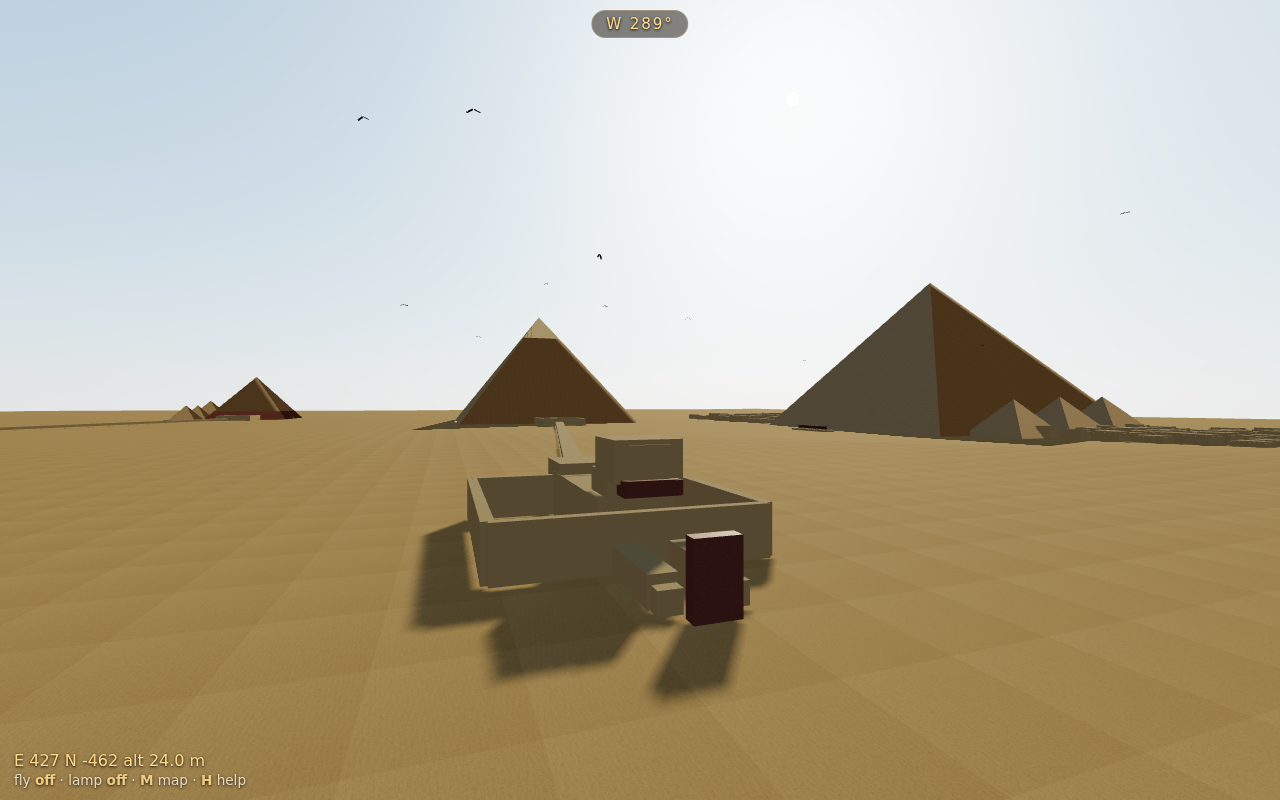
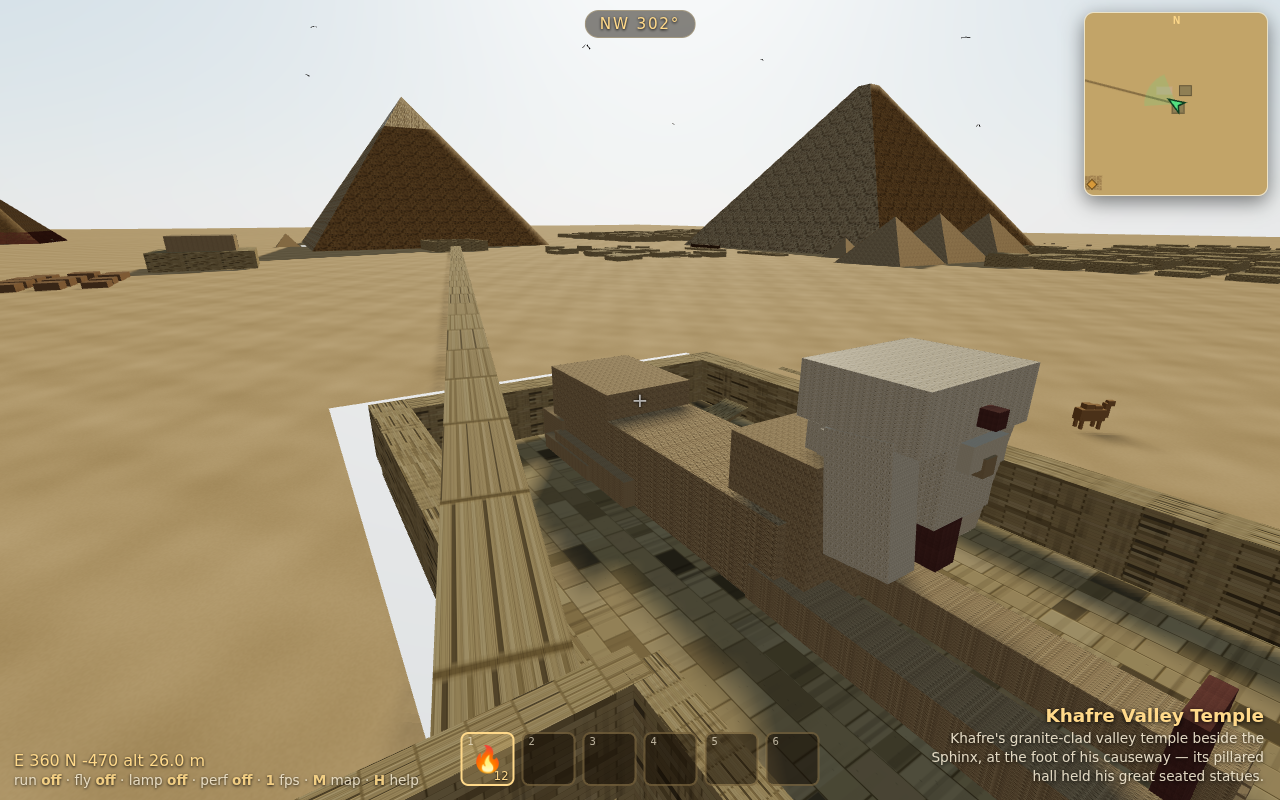
Rebuild the Sphinx + enclosure; add GIS quarry and tomb-number hovers
- Sphinx fully remodelled: recumbent lion body with rising chest, folded hind
  legs and tail, long outstretched forepaws with toes, raised neck/face with a
  broad striped nemes headdress (side lappets + back), brow, broken nose, uraeus,
  broken beard, and the Dream Stele between the paws.
- Sphinx now sits ~6 m below grade in its quarried ENCLOSURE: a sunken floor
  with rock walls on N/W/S (open east to the temples) and a ramp down; terrain
  is cut away there. Sphinx fast-travel drops you in the enclosure.
- Central-Field (GIS) quarry south of the Great Pyramid: stepped bedrock benches,
  with a landmark + fast-travel + map marker.
- Mastaba tombs now carry catalog numbers (G 7000s east, G 1200s west, workers'
  tombs) shown on hover on the full map.

diff --git a/js/world.js b/js/world.js
@@ -6,7 +6,7 @@ import {
   KHUFU_INTERIOR, simpleInterior, DEG, KHENTKAUS, WORKERS_VILLAGE,
   WALL_OF_CROW, MENKAURE_VALLEY, KHAFRE_VALLEY,
   SATELLITES, BOAT_PITS, KHUFU_VALLEY,
-  TRIAL_PASSAGES, KHENTKAUS_TOWN, WORKERS_CEMETERY
+  TRIAL_PASSAGES, KHENTKAUS_TOWN, WORKERS_CEMETERY, GIS_QUARRY
 } from './data.js';
 import {
   buildPyramidGeometry, buildInterior, buildStaircase
@@ -38,8 +38,15 @@ const PITS = [
   { c: PYRAMIDS.khafre.center, r: 105 },
   { c: PYRAMIDS.menkaure.center, r: 49 }
 ];
+const SPHINX_FLOOR = -6;        // the Sphinx sits 6 m below grade in its enclosure
+const SPHINX_RECT = {           // terrain removed here for the quarried enclosure
+  x0: SPHINX.center.x - 52, x1: SPHINX.center.x + 56,
+  z0: SPHINX.center.z - 33, z1: SPHINX.center.z + 33
+};
 function inPit(x, z) {
   for (const p of PITS) if (Math.hypot(x - p.c.x, z - p.c.z) < p.r) return true;
+  const r = SPHINX_RECT;
+  if (x > r.x0 && x < r.x1 && z > r.z0 && z < r.z1) return true;
   return false;
 }
 
@@ -140,36 +147,77 @@ function buildSmallPyramid(q, mats, collidables, group) {
   group.add(mesh); collidables.push(mesh);
 }
 
-function buildSphinx(mats, collidables, group) {
+// A detailed Great Sphinx (recumbent lion, nemes headdress, outstretched
+// paws, Dream Stele), sat with its base at `baseY` inside its enclosure.
+function buildSphinx(mats, collidables, group, baseY) {
   const s = SPHINX;
-  const L = s.length, H = s.height, W = s.width;
   const g = new THREE.Group();
-  const add = (sx, sy, sz, x, y, z, mat, collide = true) => {
-    const m = new THREE.Mesh(new THREE.BoxGeometry(sx, sy, sz), mat || mats.bedrock);
-    m.position.set(x, y, z);
+  const body = mats.limestone, head = mats.casing, gr = mats.granite;
+  const add = (sx, sy, sz, x, y, z, mat, collide = true, rot = 0) => {
+    const m = new THREE.Mesh(new THREE.BoxGeometry(sx, sy, sz), mat || body);
+    m.position.set(x, y, z); if (rot) m.rotation.z = rot;
     m.castShadow = true; m.receiveShadow = true;
     if (collide) { m.userData.collidable = true; collidables.push(m); }
     g.add(m); return m;
   };
-  // Faces east (+X): head and outstretched paws at the front (+X), the
-  // crouching lion body and haunches behind (−X).
-  add(L * 0.55, H * 0.5, W * 0.72, -L * 0.16, H * 0.25, 0);          // body
-  add(L * 0.2, H * 0.62, W * 0.72, -L * 0.4, H * 0.31, 0);           // rear haunches (taller)
-  // forelegs + outstretched paws reaching east
-  for (const sz of [1, -1]) {
-    add(L * 0.46, H * 0.22, W * 0.22, L * 0.2, H * 0.11, sz * W * 0.24); // leg
-    add(W * 0.12, H * 0.16, W * 0.18, L * 0.45, H * 0.08, sz * W * 0.24); // paw toes
+  // Faces east (+X). Coordinates: x east (front), y up from base, z = ±width.
+  // — Recumbent lion body (rises toward the chest at the front) —
+  add(46, 9, 13, -18, 4.5, 0);                 // torso
+  add(17, 12.5, 13, -33, 6.2, 0);              // rear haunches (taller)
+  for (const sz of [1, -1]) {                  // folded hind legs along the sides
+    add(20, 3.5, 3.2, -28, 1.8, sz * 6.4);
+    add(7, 5, 3, -41, 2.5, sz * 5.5);          // rear paws
   }
-  add(L * 0.14, H * 0.62, W * 0.55, L * 0.05, H * 0.4, 0);           // chest below the head
-  // head, neck and the striped nemes headdress, looking east
-  add(W * 0.34, H * 0.34, W * 0.36, L * 0.16, H * 0.78, 0);          // head/face
-  add(W * 0.6, H * 0.34, W * 0.6, L * 0.12, H * 0.82, 0);            // nemes headdress (broad)
-  add(W * 0.22, H * 0.12, W * 0.5, L * 0.2, H * 0.62, 0, mats.granite); // ceremonial beard stub
-  // Dream Stele standing between the paws (Thutmose IV)
-  add(W * 0.12, H * 0.5, W * 0.34, L * 0.5, H * 0.25, 0, mats.granite);
-  g.position.set(s.center.x, 0, s.center.z);
+  // tail curling along the south flank to the right rear
+  add(14, 2.2, 2.2, -34, 1.1, 7.2, body, true);
+  // — Outstretched forepaws reaching east —
+  for (const sz of [1, -1]) {
+    add(30, 3.6, 4.4, 17, 1.8, sz * 4.6);      // foreleg
+    for (let t = 0; t < 4; t++)                // four toes per paw
+      add(1.7, 2.0, 0.9, 31.5, 1.0, sz * 4.6 + (t - 1.5) * 1.15, body, false);
+  }
+  // — Chest, neck, head —
+  add(10, 15, 11, 2.5, 7.5, 0);                // chest below the head
+  add(6, 5.5, 6.5, 8.5, 14.5, 0, head);        // neck
+  add(7, 8.5, 7, 12.5, 17.5, 0, head);         // face
+  add(1.2, 2.0, 4.5, 16.3, 18.5, 0, head, false); // brow ridge
+  add(1.4, 1.4, 1.4, 16.4, 17.6, 0, body, false); // broken nose stub
+  // nemes headdress: broad striped headcloth flaring at the sides + back
+  add(10, 4.5, 13.5, 11, 21.5, 0, head);       // crown of the headcloth
+  for (const sz of [1, -1])                    // side lappets (the flaps)
+    add(5.5, 10, 3, 12, 14.5, sz * 5.3, head, true, sz * 0.12);
+  add(5, 8, 6, 6.5, 16, 0, head);              // back of the headcloth
+  add(1.3, 1.3, 1.3, 16.6, 21.0, 0, gr, false);// uraeus (cobra) on the brow
+  add(2.0, 5.5, 2.4, 14.5, 11.5, 0, gr, false);// broken ceremonial beard stub
+  // Dream Stele of Thutmose IV, standing between the front paws
+  add(1.2, 9, 5, 30, 4.5, 0, gr);
+  g.position.set(s.center.x, baseY || 0, s.center.z);
   group.add(g);
 }
+
+// The quarried enclosure the Sphinx sits in: a sunken floor with rock walls
+// on the N, W and S sides (open to the east toward the temples), plus a ramp.
+function buildSphinxEnclosure(mats, collidables, group) {
+  const s = SPHINX, floorY = SPHINX_FLOOR;
+  const x0 = s.center.x - 46, x1 = s.center.x + 50, z0 = s.center.z - 26, z1 = s.center.z + 26;
+  const wallTop = 2, t = 5;
+  const floor = new THREE.Mesh(new THREE.BoxGeometry(x1 - x0, 1, z1 - z0 + 2 * t), mats.bedrock);
+  floor.position.set((x0 + x1) / 2, floorY - 0.5, s.center.z); floor.receiveShadow = true;
+  floor.userData.collidable = true; group.add(floor); collidables.push(floor);
+  const wallH = wallTop - floorY;
+  const wall = (sx, sz, cx, cz) => {
+    const m = new THREE.Mesh(new THREE.BoxGeometry(sx, wallH, sz), mats.bedrock);
+    m.position.set(cx, floorY + wallH / 2, cz); m.castShadow = true; m.receiveShadow = true;
+    m.userData.collidable = true; group.add(m); collidables.push(m);
+  };
+  wall(x1 - x0 + 2 * t, t, (x0 + x1) / 2, z0 - t / 2);   // north
+  wall(x1 - x0 + 2 * t, t, (x0 + x1) / 2, z1 + t / 2);   // south
+  wall(t, z1 - z0, x0 - t / 2, s.center.z);              // west (behind the tail)
+  // ramp down into the enclosure from the north-west
+  orientedBox({ x: x0 + 10, y: 0, z: z0 - 14 }, { x: x0 + 10, y: floorY + 0.3, z: z0 + 6 },
+    6, 0.6, mats.bedrock, collidables, group);
+}
+
 
 // Low-walled stone enclosure (temple / mastaba), open-topped.
 function buildEnclosure(cx, cz, sx, sz, height, mats, collidables, group) {
@@ -208,8 +256,9 @@ function orientedBox(a, b, w, h, mat, collidables, group) {
 
 // A field of mastaba tombs (flat-topped, battered) in a regular street grid —
 // the real plateau is densely covered with these around the Great Pyramid.
-function buildMastabaField(cx, cz, cols, rows, dx, dz, mat, collidables, group, skip, out) {
+function buildMastabaField(cx, cz, cols, rows, dx, dz, mat, collidables, group, skip, out, prefix, baseNum) {
   const geoms = [];
+  let n = 0;
   for (let i = 0; i < cols; i++) {
     for (let j = 0; j < rows; j++) {
       const x = cx + i * dx + (Math.random() - 0.5) * 2;
@@ -223,10 +272,29 @@ function buildMastabaField(cx, cz, cols, rows, dx, dz, mat, collidables, group, 
       const t = new THREE.BoxGeometry(L * 0.9, H * 0.18, W * 0.9);
       t.translate(x, H + H * 0.09 - 0.1, z);
       geoms.push(t);
-      if (out) out.push({ x, z, w: L, d: W });
+      if (out) {
+        const name = prefix ? `${prefix} ${(baseNum || 0) + n * 10}` : null;
+        out.push({ x, z, w: L, d: W, name });
+      }
+      n++;
     }
   }
   if (!geoms.length) return;
+  const mesh = new THREE.Mesh(mergeGeometries(geoms, false), mat);
+  mesh.userData.collidable = true; mesh.castShadow = true; mesh.receiveShadow = true;
+  group.add(mesh); collidables.push(mesh);
+}
+
+// The Central-Field quarry: irregular stepped benches of cut bedrock.
+function buildQuarry(q, mat, collidables, group) {
+  const c = q.center, geoms = [];
+  for (let i = 0; i < 44; i++) {
+    const x = c.x + (Math.random() - 0.5) * 120;
+    const z = c.z + (Math.random() - 0.5) * 84;
+    const w = 6 + Math.random() * 16, d = 5 + Math.random() * 12, h = 1.2 + Math.random() * 4;
+    const g = new THREE.BoxGeometry(w, h, d); g.translate(x, h / 2, z);
+    geoms.push(g);
+  }
   const mesh = new THREE.Mesh(mergeGeometries(geoms, false), mat);
   mesh.userData.collidable = true; mesh.castShadow = true; mesh.receiveShadow = true;
   group.add(mesh); collidables.push(mesh);
@@ -481,9 +549,10 @@ export function buildWorld(scene, mats) {
   for (const q of QUEENS_KHUFU) buildSmallPyramid(q, mats, collidables, group);
   for (const q of QUEENS_MENKAURE) buildSmallPyramid(q, mats, collidables, group);
 
-  // Sphinx + its valley temple
-  buildSphinx(mats, collidables, group);
-  landmarks.push({ name: SPHINX.name, blurb: SPHINX.blurb, radius: 60,
+  // Sphinx, sunk into its quarried enclosure, + the temples in front (east)
+  buildSphinxEnclosure(mats, collidables, group);
+  buildSphinx(mats, collidables, group, SPHINX_FLOOR);
+  landmarks.push({ name: SPHINX.name, blurb: SPHINX.blurb, radius: 70,
     pos: { x: SPHINX.center.x, y: 12, z: SPHINX.center.z } });
   buildEnclosure(SPHINX.center.x + 60, SPHINX.center.z, 38, 50, 9, mats, collidables, group); // Sphinx Temple, in front (east)
   // Khafre's valley temple, just south of the Sphinx Temple
@@ -525,8 +594,13 @@ export function buildWorld(scene, mats) {
 
   // Cemeteries of mastaba tombs — Eastern field sits well east of the queens'
   // pyramids; Western field is set back from the west face. Both in tidy rows.
-  buildMastabaField(kc.x + 205, kc.z - 120, 6, 13, 24, 21, mats.bedrock, collidables, group, null, mastabas);
-  buildMastabaField(kc.x - 395, kc.z - 120, 9, 13, 23, 20, mats.bedrock, collidables, group, null, mastabas);
+  buildMastabaField(kc.x + 205, kc.z - 120, 6, 13, 24, 21, mats.bedrock, collidables, group, null, mastabas, 'Mastaba G', 7110);
+  buildMastabaField(kc.x - 395, kc.z - 120, 9, 13, 23, 20, mats.bedrock, collidables, group, null, mastabas, 'Mastaba G', 1200);
+
+  // Central-Field quarry south of the Great Pyramid
+  buildQuarry(GIS_QUARRY, mats.bedrock, collidables, group);
+  landmarks.push({ name: GIS_QUARRY.name, blurb: GIS_QUARRY.blurb, radius: 80,
+    pos: { x: GIS_QUARRY.center.x, y: 3, z: GIS_QUARRY.center.z } });
 
   // Tomb of Khentkaus I + the workers' town
   buildKhentkaus(KHENTKAUS, mats, collidables, group);
@@ -599,7 +673,7 @@ export function buildWorld(scene, mats) {
   landmarks.push({ name: KHENTKAUS_TOWN.name, blurb: KHENTKAUS_TOWN.blurb, radius: 45,
     pos: { x: KHENTKAUS_TOWN.center.x, y: 3, z: KHENTKAUS_TOWN.center.z } });
   buildMastabaField(WORKERS_CEMETERY.center.x - 32, WORKERS_CEMETERY.center.z - 22, 8, 6, 8, 7,
-    deco.mud, collidables, group, null, mastabas);
+    deco.mud, collidables, group, null, mastabas, "Worker's tomb", 1);
   landmarks.push({ name: WORKERS_CEMETERY.name, blurb: WORKERS_CEMETERY.blurb, radius: 55,
     pos: { x: WORKERS_CEMETERY.center.x, y: 2, z: WORKERS_CEMETERY.center.z } });
 

diff --git a/js/main.js b/js/main.js
@@ -3,7 +3,7 @@ import { PointerLockControls } from 'three/addons/controls/PointerLockControls.j
 import { makeMaterials } from './materials.js';
 import { buildWorld } from './world.js';
 import { buildCollider, Player } from './player.js';
-import { TELEPORTS, PYRAMIDS, QUEENS_KHUFU, QUEENS_MENKAURE, SPHINX, KHENTKAUS, WORKERS_VILLAGE, WALL_OF_CROW, MENKAURE_VALLEY, KHAFRE_VALLEY, SATELLITES, BOAT_PITS, KHUFU_VALLEY, TRIAL_PASSAGES, KHENTKAUS_TOWN, WORKERS_CEMETERY } from './data.js';
+import { TELEPORTS, PYRAMIDS, QUEENS_KHUFU, QUEENS_MENKAURE, SPHINX, KHENTKAUS, WORKERS_VILLAGE, WALL_OF_CROW, MENKAURE_VALLEY, KHAFRE_VALLEY, SATELLITES, BOAT_PITS, KHUFU_VALLEY, TRIAL_PASSAGES, KHENTKAUS_TOWN, WORKERS_CEMETERY, GIS_QUARRY } from './data.js';
 
 const canvas = document.getElementById('game');
 const renderer = new THREE.WebGLRenderer({ canvas, antialias: true });
@@ -420,6 +420,7 @@ FEATURES.push({ kind: 'temple', label: KHUFU_VALLEY.name, x: KHUFU_VALLEY.center
 FEATURES.push({ kind: 'site', label: TRIAL_PASSAGES.name, x: TRIAL_PASSAGES.center.x, z: TRIAL_PASSAGES.center.z });
 FEATURES.push({ kind: 'site', label: KHENTKAUS_TOWN.name, x: KHENTKAUS_TOWN.center.x, z: KHENTKAUS_TOWN.center.z });
 FEATURES.push({ kind: 'site', label: WORKERS_CEMETERY.name, x: WORKERS_CEMETERY.center.x, z: WORKERS_CEMETERY.center.z });
+FEATURES.push({ kind: 'site', label: GIS_QUARRY.name, x: GIS_QUARRY.center.x, z: GIS_QUARRY.center.z });
 FEATURES.push({ kind: 'khent', label: KHENTKAUS.name, x: KHENTKAUS.center.x, z: KHENTKAUS.center.z, base: KHENTKAUS.base });
 FEATURES.push({ kind: 'village', label: WORKERS_VILLAGE.name, x: WORKERS_VILLAGE.center.x, z: WORKERS_VILLAGE.center.z });
 FEATURES.push({ kind: 'temple', label: MENKAURE_VALLEY.name, x: MENKAURE_VALLEY.center.x, z: MENKAURE_VALLEY.center.z });
@@ -436,6 +437,7 @@ function drawMapView(ctx, w, h, cx, cz, scale, full, collect) {
   for (const m of world.mastabas) {
     const mw = Math.max(1.5, m.w * scale), md = Math.max(1.5, m.d * scale);
     ctx.fillRect(X(m.x) - mw / 2, Y(m.z) - md / 2, mw, md);
+    if (full && collect && m.name) collect.push({ sx: X(m.x), sy: Y(m.z), name: m.name, r: Math.max(3, mw / 2) });
   }
   ctx.fillStyle = '#8a6b46';
   for (const b of world.buildings) {

diff --git a/js/data.js b/js/data.js
@@ -241,6 +241,14 @@ export const MENKAURE_VALLEY = {
          'stone and finished in mud brick after his death.'
 };
 
+// The "GIS" central-field quarry south of the Great Pyramid, where much of
+// the core stone was cut.
+export const GIS_QUARRY = {
+  name: 'Central Field Quarry (GIS)', center: { x: -10, z: 250 },
+  blurb: 'The main quarry south of the Great Pyramid, where workers cut the ' +
+         'core limestone blocks — leaving stepped benches in the bedrock.'
+};
+
 // The Trial Passages — rock-cut corridors east of the Great Pyramid that
 // reproduce its internal passage system at near-full scale.
 export const TRIAL_PASSAGES = {
@@ -292,7 +300,7 @@ export const TELEPORTS = [
   { label: 'Great Pyramid — Subterranean Chamber', pos: { x: SUBT.x, y: SUBT.y + 0.3, z: SUBT.z } },
   { label: 'Pyramid of Khafre — north base', pos: { x: -340, y: 2, z: 340 - 120 } },
   { label: 'Pyramid of Menkaure — north base', pos: { x: -581, y: 2, z: 740 - 58 } },
-  { label: 'The Great Sphinx', pos: { x: 332, y: 4, z: 432 - 58 } },
+  { label: 'The Great Sphinx', pos: { x: 327 + 46, y: -5.5, z: 432 } },
   { label: 'Tomb of Khentkaus I', pos: { x: -40, y: 3, z: 505 - 40 } },
   { label: "Workers' Town", pos: { x: 270, y: 3, z: 835 - 70 } },
   { label: 'Menkaure Valley Temple', pos: { x: -202, y: 2, z: 859 - 30 } },
@@ -300,5 +308,6 @@ export const TELEPORTS = [
   { label: 'Wall of the Crow (gate)', pos: { x: 266, y: 2, z: 767 - 14 } },
   { label: 'Khufu Valley Temple', pos: { x: 520, y: 2, z: 50 - 28 } },
   { label: 'Trial Passages', pos: { x: 160, y: 2, z: -42 - 12 } },
-  { label: "Workers' Cemetery", pos: { x: 120, y: 2, z: 700 - 35 } }
+  { label: "Workers' Cemetery", pos: { x: 120, y: 2, z: 700 - 35 } },
+  { label: 'Central Field Quarry', pos: { x: -10, y: 2, z: 250 } }
 ];
